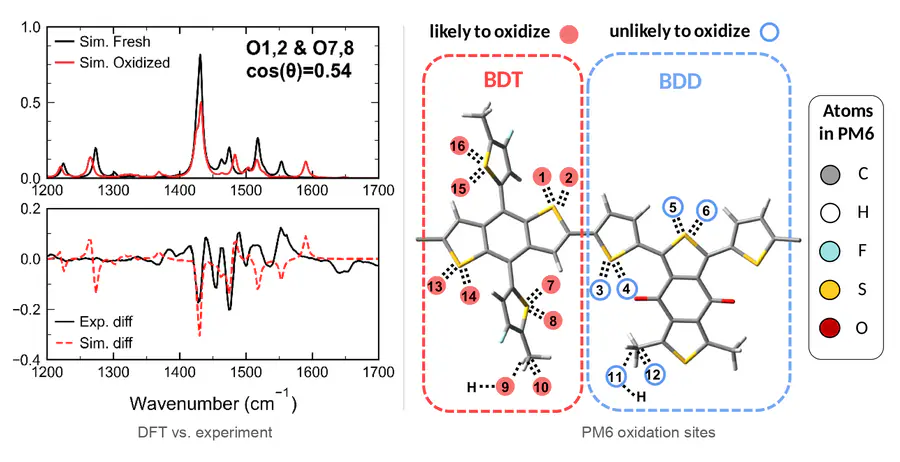
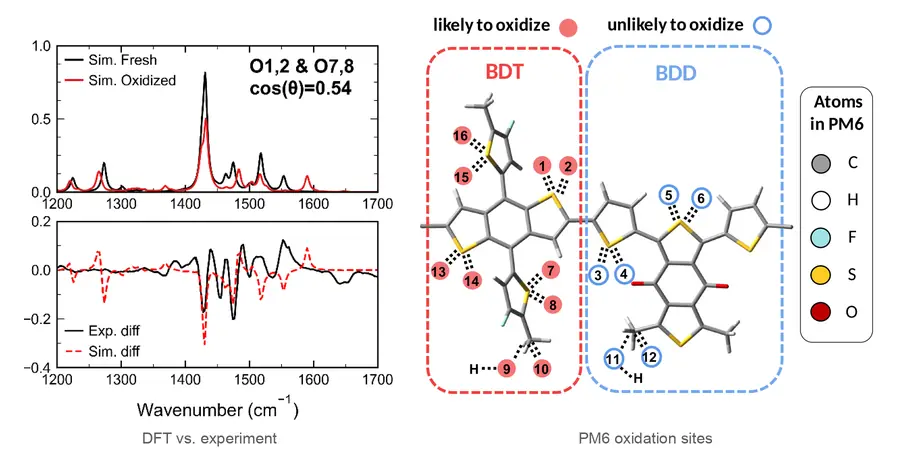
Add site integrity checker and CI workflow

Changed region(s): [[0.4667, 0.0303, 0.9956, 0.9697], [0.0, 0.0303, 0.4356, 0.9697], [0.0, 0.2121, 0.0933, 0.2727]]

diff --git a/index.html b/index.html
@@ -309,6 +309,7 @@
               <span class="status status-accepted">Accepted</span>
               <span class="venue">Joule · 2026</span>
               <span class="role-tag role-cofirst">Co-first author</span>
+              <span class="role-tag role-corresponding">Corresponding author</span>
             </div>
             <div class="pub-authors">P. Wang, <strong>Z. Feng</strong> (Co-first, corresponding), F. Zimmermann, S. D. Öz, C. Chen, W. Li, A. Kadid, M. Schiffer, H. Ping, Y. Liu, D. Coenen, G. He, T. Maschwitz, C. Tückmantel, F. Lang, W. Maes, Y. Zhou, T. Wang, S. Olthof, S. S. Jang, K. O. Brinkmann, T. Riedl</div>
             <div class="pub-links">

diff --git a/scripts/check_site.py b/scripts/check_site.py
@@ -1,0 +1,311 @@
+#!/usr/bin/env python3
+"""Site integrity + freshness checker.
+
+Two independent questions this answers:
+
+  1. Is the committed site internally consistent?   (structural checks)
+  2. Is what visitors see actually what I wrote?    (--live: sync checks)
+
+Question 2 exists because "the site isn't showing X" has had three different
+causes here — browser cache, a scroll-reveal race, and unmerged work — which
+look identical from the outside. --live names which one it is.
+
+Usage:
+    python3 scripts/check_site.py            # structural checks only (fast, offline)
+    python3 scripts/check_site.py --live     # also compare repo vs deployed site
+    python3 scripts/check_site.py --cv       # also check the CV pdf (needs pdftotext)
+
+Exit code is non-zero if any ERROR was reported, so CI can gate on it.
+"""
+
+from __future__ import annotations
+
+import argparse
+import json
+import os
+import re
+import subprocess
+import sys
+import urllib.request
+
+ROOT = os.path.dirname(os.path.dirname(os.path.abspath(__file__)))
+INDEX = os.path.join(ROOT, "index.html")
+CV = os.path.join(ROOT, "CV", "Zhihao_Feng_CV.pdf")
+LIVE_URL = "https://fengzhihao77.github.io/"
+
+errors: list[str] = []
+warnings: list[str] = []
+notes: list[str] = []
+
+
+def err(msg: str) -> None:
+    errors.append(msg)
+
+
+def warn(msg: str) -> None:
+    warnings.append(msg)
+
+
+def note(msg: str) -> None:
+    notes.append(msg)
+
+
+def read_index() -> str:
+    with open(INDEX, encoding="utf-8") as fh:
+        return fh.read()
+
+
+# ---------------------------------------------------------------- structural
+
+def check_jsonld(html: str) -> None:
+    m = re.search(r'<script type="application/ld\+json">(.*?)</script>', html, re.S)
+    if not m:
+        err("JSON-LD block not found")
+        return
+    try:
+        data = json.loads(m.group(1))
+    except json.JSONDecodeError as exc:
+        err(f"JSON-LD does not parse: {exc}")
+        return
+    graph = data.get("@graph", [])
+    articles = [n for n in graph if n.get("@type") == "ScholarlyArticle"]
+    cards = re.findall(r'<li class="pub"', html)
+    note(f"JSON-LD ok: {len(graph)} nodes, {len(articles)} ScholarlyArticle")
+    if len(articles) != len(cards):
+        warn(
+            f"JSON-LD has {len(articles)} articles but there are {len(cards)} "
+            "publication cards — structured data is out of sync with the page"
+        )
+
+
+def check_publication_ordering(html: str) -> None:
+    cards = re.findall(
+        r'<li class="pub" data-year="(\d{4})" data-rank="(\d+)" data-order="(\d+)"', html
+    )
+    if not cards:
+        err("no publication cards found")
+        return
+    n = len(cards)
+    ranks = sorted(int(c[1]) for c in cards)
+    orders = [int(c[2]) for c in cards]
+    if ranks != list(range(1, n + 1)):
+        err(f"data-rank must be a contiguous 1..{n}; got {ranks}")
+    if orders != list(range(n)):
+        err(
+            f"data-order must match document position 0..{n-1}; got {orders} "
+            "(the By-year view breaks otherwise)"
+        )
+    note(f"publications ok: {n} cards, ranks 1..{n}, order sequential")
+
+
+def check_news_order(html: str) -> None:
+    block = re.search(r'<ul class="news-list">(.*?)</ul>', html, re.S)
+    if not block:
+        err("news list not found")
+        return
+    stamps = re.findall(r'<time datetime="(\d{4})-(\d{2})">', block.group(1))
+    if not stamps:
+        err("news list has no <time datetime> entries")
+        return
+    keys = [(int(y), int(mo)) for y, mo in stamps]
+    if keys != sorted(keys, reverse=True):
+        err(f"news items are not newest-first: {['%s-%s' % s for s in stamps]}")
+    note(f"news ok: {len(keys)} items, newest {keys[0][0]}-{keys[0][1]:02d}, newest-first")
+
+
+def check_local_assets(html: str) -> None:
+    refs = set(re.findall(r'(?:src|href)="((?!https?:|mailto:|#)[^"]+)"', html))
+    missing = []
+    for ref in sorted(refs):
+        path = os.path.join(ROOT, ref.split("?")[0].lstrip("/"))
+        if not os.path.exists(path):
+            missing.append(ref)
+    if missing:
+        err(f"referenced files that do not exist: {missing}")
+    else:
+        note(f"assets ok: all {len(refs)} local references resolve")
+
+
+def check_thumbnail_ratios(html: str) -> None:
+    """Flag card thumbnails whose file ratio differs from their display box.
+
+    Card thumbnails are pre-cropped to the display ratio by convention. They
+    also carry `object-fit: cover`, so a mismatch does not distort — it
+    silently crops, quietly eating content off the edges. That is how a
+    900x463 file once slipped into a 900x462 slot, and why conference photos
+    lost people when the ratio moved. The hero portrait is deliberately
+    cover-cropped and is not a card thumbnail, so it is out of scope here.
+    """
+    try:
+        from PIL import Image  # type: ignore
+    except ImportError:
+        note("thumbnail-ratio check skipped (Pillow not installed)")
+        return
+    pairs = re.findall(
+        r'<img class="thumb"[^>]*src="([^"]+)"[^>]*width="(\d+)"[^>]*height="(\d+)"', html
+    )
+    if not pairs:
+        note("thumbnail-ratio check: no card thumbnails found")
+        return
+    off = []
+    for src, w, h in pairs:
+        path = os.path.join(ROOT, src.split("?")[0].lstrip("/"))
+        if not os.path.exists(path):
+            continue
+        with Image.open(path) as im:
+            fw, fh = im.size
+        want, got = int(w) / int(h), fw / fh
+        crop_pct = 100 * (1 - min(want, got) / max(want, got))
+        if crop_pct > 1.0:
+            off.append(
+                f"{src}: file {fw}x{fh} ({got:.3f}) vs box {w}x{h} ({want:.3f}) "
+                f"— ~{crop_pct:.1f}% gets cropped away"
+            )
+    if off:
+        warn("thumbnail ratio differs from its display box:\n      " + "\n      ".join(off))
+    else:
+        note(f"thumbnails ok: all {len(pairs)} match their display ratio exactly")
+
+
+def check_reveal_failsafe(html: str) -> None:
+    """Regression guard for the scroll-reveal race fixed in PR #28.
+
+    Without these, a late layout shift can leave content stuck invisible —
+    which reads to a visitor as "the new item is missing".
+    """
+    for needle, what in [
+        ("unstickPassedReveals", "reveal failsafe sweep"),
+        ("ScrollTrigger.refresh()", "trigger re-measure"),
+        ("legacyReveal", "no-GSAP fallback path"),
+    ]:
+        if needle not in html:
+            err(f"{what} ('{needle}') is missing — scroll-reveal can strand content")
+    if not errors:
+        note("reveal safety net ok: failsafe, refresh and fallback all present")
+
+
+def check_anchors(html: str) -> None:
+    ids = set(re.findall(r'\sid="([^"]+)"', html))
+    targets = set(re.findall(r'href="#([^"]+)"', html))
+    dangling = sorted(t for t in targets if t and t not in ids)
+    if dangling:
+        err(f"in-page links point at missing ids: {dangling}")
+    else:
+        note(f"anchors ok: {len(targets)} in-page links all resolve")
+
+
+# ------------------------------------------------------------------- the CV
+
+def check_cv() -> None:
+    if not os.path.exists(CV):
+        err("CV pdf is missing")
+        return
+    try:
+        text = subprocess.run(
+            ["pdftotext", "-layout", CV, "-"],
+            capture_output=True, text=True, check=True,
+        ).stdout
+    except (FileNotFoundError, subprocess.CalledProcessError):
+        note("CV text check skipped (pdftotext unavailable)")
+        return
+    flat = " ".join(text.split())
+    if "chronotope" in flat.lower():
+        err("CV names the company — public documents are meant to stay stealth")
+    if "zfeng77@gatech.edu" not in flat:
+        warn("CV does not contain the public contact address")
+    pages = text.count("\f") or 1
+    note(f"CV ok: {pages} pages, privacy gate passed")
+
+
+# ------------------------------------------------------------------ liveness
+
+def git(*args: str) -> str:
+    return subprocess.run(
+        ["git", *args], cwd=ROOT, capture_output=True, text=True
+    ).stdout.strip()
+
+
+def check_live() -> None:
+    """Answer: does the live site show what I wrote, and if not, why not?"""
+    git("fetch", "origin", "--quiet")
+    branch = git("rev-parse", "--abbrev-ref", "HEAD")
+    dirty = bool(git("status", "--porcelain"))
+    ahead = [l for l in git("log", "--oneline", "origin/main..HEAD").splitlines() if l]
+
+    try:
+        with urllib.request.urlopen(LIVE_URL, timeout=20) as resp:
+            live = resp.read().decode("utf-8", "replace")
+    except Exception as exc:  # noqa: BLE001
+        err(f"could not fetch the live site: {exc}")
+        return
+
+    deployed = git("show", "origin/main:index.html")
+    live_news = re.findall(r'<time datetime="([\d-]+)">', live)
+    head_news = re.findall(r'<time datetime="([\d-]+)">', read_index())
+
+    if live.strip() == deployed.strip():
+        note("deploy ok: live site matches origin/main exactly (no cache lag)")
+    else:
+        warn(
+            "live site differs from origin/main — either Pages is still building "
+            "(wait ~1 min) or your browser is showing a cached copy (hard-reload)"
+        )
+
+    if dirty:
+        warn(f"working tree has uncommitted changes on '{branch}' — not deployable yet")
+    if ahead:
+        warn(
+            f"'{branch}' is {len(ahead)} commit(s) ahead of origin/main — "
+            "this work is NOT live until the PR is merged:\n      "
+            + "\n      ".join(ahead)
+        )
+    if not dirty and not ahead:
+        note("sync ok: your branch has nothing that main is missing")
+
+    note(f"news items — local: {len(head_news)}, live: {len(live_news)}")
+    if len(head_news) != len(live_news):
+        warn(
+            f"local has {len(head_news)} news items but live shows {len(live_news)} "
+            "— see the sync warnings above for the reason"
+        )
+
+
+# ---------------------------------------------------------------------- main
+
+def main() -> int:
+    ap = argparse.ArgumentParser(description=__doc__,
+                                 formatter_class=argparse.RawDescriptionHelpFormatter)
+    ap.add_argument("--live", action="store_true", help="compare repo against the deployed site")
+    ap.add_argument("--cv", action="store_true", help="also validate the CV pdf")
+    args = ap.parse_args()
+
+    html = read_index()
+    check_jsonld(html)
+    check_publication_ordering(html)
+    check_news_order(html)
+    check_local_assets(html)
+    check_thumbnail_ratios(html)
+    check_reveal_failsafe(html)
+    check_anchors(html)
+    if args.cv:
+        check_cv()
+    if args.live:
+        check_live()
+
+    for n in notes:
+        print(f"  ok    {n}")
+    for w in warnings:
+        print(f"  WARN  {w}")
+    for e in errors:
+        print(f"  ERROR {e}")
+
+    print()
+    if errors:
+        print(f"FAILED — {len(errors)} error(s), {len(warnings)} warning(s)")
+        return 1
+    print(f"PASSED — {len(warnings)} warning(s)")
+    return 0
+
+
+if __name__ == "__main__":
+    sys.exit(main())
